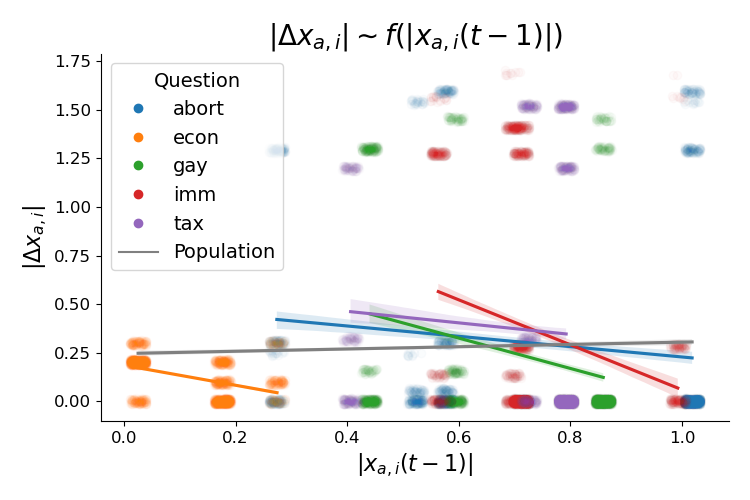
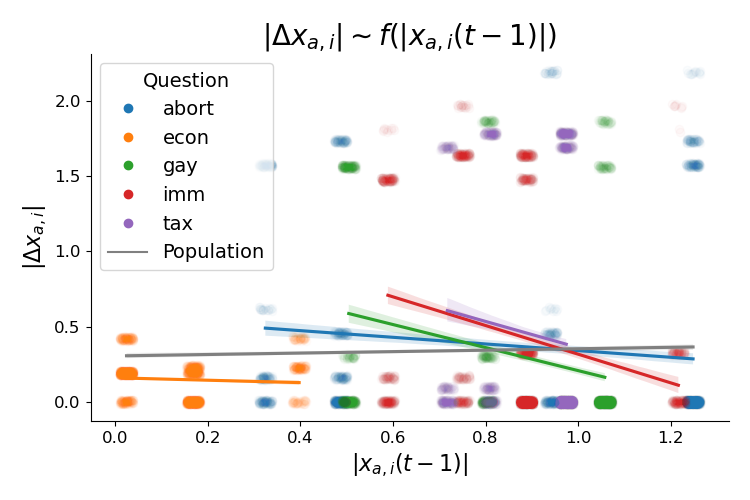
producing better plots and models on ANES and refactoring

diff --git a/ANES/2_mdl.py b/ANES/2_mdl.py
@@ -20,7 +20,7 @@ rcParams['ytick.labelsize'] = 12  # Y-axis tick size
 
 
 df = pd.read_csv('data/anes_data.csv')
-pos = pd.read_csv('data/anes_pos.csv')
+pos = pd.read_csv('data/anes_pos_resin.csv')
 
 # since position here (2016) is used for 2020 we need to duplicate
 pos2020 = pos.copy()
@@ -169,134 +169,42 @@ plot_question(
 # plot model 4 
 # Delta individual ~ SD of beliefs
 plot_individual(
-    df = merged_df[['ID', 'xvalue_lag_std', 'xvalue_delta_abs']].drop_duplicates(),
+    df = merged_df[['ID', 'xvalue_lag_std', 'abs_x_distance']].drop_duplicates(),
     col_x = 'xvalue_lag_std',
-    col_y = 'xvalue_delta_abs',
+    col_y = 'abs_x_distance',
     title = r'$|\Delta x_{a, i}| \sim |std(x_{a, i})|$',
-    xlab = r'$|std(x_{a, i})|$',
-    ylab = r'$|\Delta x_{a, i}|$',
+    xlab = r'$|std(x_{p, i})|$',
+    ylab = r'$|\Delta x_{p, i}|$',
     save = 'figres/m4.png'
 )
 
-
-merged_df
-data_2016 = data_2016.groupby(['ID'])['xvalue'].std().reset_index(name='std')
-lagged_df = lagged_df.merge(data_2016, on = 'ID', how = 'inner')
-
-centroid_2020 = complete_df[complete_df['year']==2020]
-centroid_2020 = centroid_2020.groupby(['ID'])['xvalue'].mean().reset_index(name='centroid_2020')
-lagged_df = lagged_df.merge(centroid_2020, on = 'ID', how = 'inner')
-
-lagged_df['centroid_delta'] = abs(lagged_df['centroid_2020']-lagged_df['x_2016'])
-lagged_unique = lagged_df[['ID', 'std', 'centroid_delta']].drop_duplicates()
-
-
-lagged_df['xvalue_lag_abs'] = lagged_df['xvalue_lag'].abs()
-lagged_df['xvalue_delta'] = abs(lagged_df['xvalue'] - lagged_df['xvalue_lag'])
-
-# plot idea for first model;
-import seaborn as sns 
-fig, ax = plt.subplots()
-
-sns.lineplot(
-    data=lagged_df,
-    x='xvalue_lag_abs', 
-    y='xvalue_delta_abs', 
-    hue='question'
-    )
-
-# Add jitter to the x and/or y values
-lagged_df['xvalue_lag_abs_jittered'] = lagged_df['xvalue_lag_abs'] + np.random.uniform(-0.02, 0.02, len(lagged_df))
-lagged_df['xvalue_delta_jittered'] = lagged_df['xvalue_delta'] + np.random.uniform(-0.02, 0.02, len(lagged_df))
-
-
-# Plot with jittered values
-sns.scatterplot(
-    data=lagged_df,
-    x='xvalue_lag_abs_jittered',
-    y='xvalue_delta_jittered',
-    hue='question',
-    alpha=0.1,
-    legend=False
+# fig 5.
+# basically the same as fig 2, but with the average delta.
+# so instead of ideological movement; stability.
+fig2_tweak = merged_df[['ID', 'abs_x_baseline', 'xvalue_delta_abs']]
+average_delta = fig2_tweak.groupby('ID')['xvalue_delta_abs'].mean().reset_index(name='average_delta')
+fig2_tweak = fig2_tweak[['ID', 'abs_x_baseline']].drop_duplicates()
+fig2_tweak = fig2_tweak.merge(average_delta, on='ID', how='inner')
+plot_individual(
+    df = fig2_tweak,
+    col_x = 'abs_x_baseline',
+    col_y = 'average_delta',
+    title = r'$avg(|\Delta x_{a, i}|) \sim |x_{p, i}(t-1)|$',
+    xlab = r'$|x_{p, i}(t-1)|$',
+    ylab = r'$avg(|\Delta x_{a, i}|)$',
+    save = 'figres/m5.png'
 )
 
-plt.xlabel(r'$|X_{t1}|, \forall X$', fontsize=12)
-plt.ylabel(r'$|X_{t1} - X_{t2}|, \forall X$', fontsize=12)
-plt.tight_layout()
-plt.savefig('figres/m1.png')
-plt.close()
-
-# now we can also do the average 
-# like; how far do you move thing. 
-average_values = complete_df.groupby(['ID', 'year'])['xvalue'].mean().reset_index(name='avg_x')
-average_2016 = average_values[average_values['year']==2016]
-average_2020 = average_values[average_values['year']==2020]
-average_2016 = average_2016.rename(columns={
-    'avg_x': 'x_2016'})
-average_2020 = average_2020.rename(columns={
-    'avg_x': 'x_2020'
-})
-average_2016 = average_2016.drop(columns='year')
-average_2020 = average_2020.drop(columns='year')
-average_values = average_2016.merge(average_2020, on = 'ID', how = 'inner')
-average_values['absolute_dist'] = abs(average_values['x_2016']-average_values['x_2020'])
-average_values['absolute_2016'] = abs(average_values['x_2016'])
-
-# Plot with jittered values
-fig, ax = plt.subplots(figsize=(5, 3))
-sns.regplot(
-    data=average_values,
-    x='absolute_2016', 
-    y='absolute_dist', 
-    scatter_kws={'alpha': 0.1},
-    x_jitter=0.01,
-    y_jitter=0.01
-    )
-plt.xlabel('|avg(X t1)|')
-plt.ylabel('|avg(X t1)-avg(X t2)|')
-plt.tight_layout()
-plt.savefig('figres/m2.png')
-plt.close()
-
-# by distance from your locus to opinions # 
-lagged_df = lagged_df.merge(average_2016, on = 'ID', how = 'inner')
-lagged_df['d_abs'] = abs(lagged_df['xvalue_lag']-lagged_df['x_2016'])
-
-sns.regplot(
-    data=lagged_df,
-    x='d_abs',
-    y='xvalue_delta',
-    scatter_kws={'alpha': 0.1},
-    x_jitter=0.01,
-    y_jitter=0.01
+fig4_tweak = merged_df[['ID', 'xvalue_lag_std', 'xvalue_delta_abs']]
+average_delta = fig4_tweak.groupby('ID')['xvalue_delta_abs'].mean().reset_index(name='average_delta')
+fig4_tweak = fig4_tweak[['ID', 'xvalue_lag_std']].drop_duplicates()
+fig4_tweak = fig4_tweak.merge(average_delta, on='ID', how='inner')
+plot_individual(
+    df = fig4_tweak,
+    col_x = 'xvalue_lag_std',
+    col_y = 'average_delta',
+    title = r'$avg(|\Delta x_{a, i}|) \sim |std(x_{a, i})|$',
+    xlab = r'$|std(x_{a, i})|$',
+    ylab = r'$avg(|\Delta x_{a, i}|)$',
+    save = 'figres/m6.png'
 )
-plt.tight_layout()
-plt.savefig('figres/m3.png')
-plt.close()
-
-# absolute movement by SD of beliefs 
-data_2016 = complete_df[complete_df['year']==2016]
-data_2016 = data_2016.groupby(['ID'])['xvalue'].std().reset_index(name='std')
-lagged_df = lagged_df.merge(data_2016, on = 'ID', how = 'inner')
-
-centroid_2020 = complete_df[complete_df['year']==2020]
-centroid_2020 = centroid_2020.groupby(['ID'])['xvalue'].mean().reset_index(name='centroid_2020')
-lagged_df = lagged_df.merge(centroid_2020, on = 'ID', how = 'inner')
-
-lagged_df['centroid_delta'] = abs(lagged_df['centroid_2020']-lagged_df['x_2016'])
-lagged_unique = lagged_df[['ID', 'std', 'centroid_delta']].drop_duplicates()
-
-fig, ax = plt.subplots(figsize=(6, 4))
-sns.regplot(
-    data=lagged_df,
-    x = 'std', 
-    y = 'centroid_delta',
-    scatter_kws = {'alpha': 0.1},
-    x_jitter = 0.01, 
-    y_jitter = 0.01,
-)
-plt.ylabel(r"$abs(avg(X_{t1})-avg(X_{t2}))$")
-plt.xlabel(r'$std(X_{t1})$')
-plt.tight_layout()
-plt.savefig('figres/m4.png')
-plt.close()

diff --git a/ANES/3_visualize.py b/ANES/3_visualize.py
@@ -1,97 +1,53 @@
 import pandas as pd
-import numpy as np
 import matplotlib.pyplot as plt
 import networkx as nx
-from itertools import combinations
-import pickle 
+from itertools import combinations, product 
 import matplotlib.colors as mcolors
+import plotly.graph_objects as go
+import plotly.io as pio
 
 # ----------------- DATA ---------------------- #
 
 df = pd.read_csv('data/anes_data.csv')
+pos = pd.read_csv('data/anes_pos_resin.csv')
 
-df = df.dropna()
+# ----------------- calculate distances ---------------------- #
+pos['index'] = pos.index
+distance_data = []
+for node_x, node_y in product(pos['index'], repeat=2):
+    node_x_val = pos.loc[node_x]['xvalue']
+    node_y_val = pos.loc[node_y]['xvalue']
+    x_distance = abs(node_x_val - node_y_val)
+    distance_data.append([node_x, node_y, x_distance])
+    
+# naming here is just to facilitate merges 
+df_distance = pd.DataFrame(distance_data, columns=['index', 'idx', 'abs_x_dist'])
+pos_tmp = pos[['question', 'answer', 'index']]
+df_distance = df_distance.merge(pos_tmp, on = 'index', how='inner')
+pos_tmp = pos_tmp.rename(columns={'index': 'idx'})
+df_distance = df_distance.merge(pos_tmp, on=['idx', 'question'], how='inner')
+df_distance = df_distance.rename(columns={
+    'answer_x': 'answer',
+    'answer_y': 'lag_answer'
+})
+df_distance = df_distance.drop(columns={'index', 'idx'})
 
-with open('data/pos.pkl', 'rb') as handle:
-    pos = pickle.load(handle)
-with open('data/new_pos.pkl', 'rb') as handle:
-    new_pos = pickle.load(handle)
-
-# ----------------- FUNCTIONS ---------------------- #
-def calculate_distances(pos, new_pos): 
-    data = []
-    # loop over all pairs of nodes
-    for node_x, node_y in combinations(pos.keys(), 2): 
-        euclid_distance = np.linalg.norm(np.array(pos[node_x]) - np.array(pos[node_y]))
-        x_distance = abs(new_pos[node_x][0] - new_pos[node_y][0])
-
-        # overall variable
-        variable = node_x.split('2016')[0]
-        item_1 = node_x.split('_')[1]
-        item_2 = node_y.split('_')[1]
-        
-        # Append results to the list
-        data.append([variable, item_1, item_2, euclid_distance, x_distance])
-        
-        # Maybe there is a better way to organize this
-        data.append([variable, item_2, item_1, euclid_distance, x_distance])
-
-    # add self-loops
-    for node in pos.keys():
-        variable = node.split('2016')[0]
-        item = node.split('_')[1]
-        
-        # by definition distance is 0
-        data.append([variable, item, item, 0, 0])
-
-    # gather data 
-    distance_df = pd.DataFrame(data, columns=['variable', 'item_2016', 'item_2020', 'euclid_dist_2016', 'x_dist_2016'])
-    return distance_df
-
-def get_transitions(df, variable): 
-    transitions = df[[f'{variable}2016', f'{variable}2020']].value_counts().to_frame().reset_index()
-    transitions['variable'] = variable
-    transitions = transitions.rename(columns={
-        f'{variable}2016': 'item_2016',
-        f'{variable}2020': 'item_2020',
-        'count': 'n_transition'
-    })
-    return transitions
-
-# calculate base rates 
-def get_baserate(df):
-    melt = df.melt(var_name="variable", value_name="item")
-    melt = melt.groupby(["variable", "item"]).size().reset_index(name="count")
-    melt['year'] = melt['variable'].str.extract(r'(\d{4})')
-    melt['variable'] = melt['variable'].str.extract(r'([a-zA-Z]+)')
-    return melt
-
-# -------- calculate distances -------- #
-distance_df = calculate_distances(pos, new_pos)
-
-# -------- calculate transitions -------- #
-transition_abort = get_transitions(df, 'abort')
-transition_gay = get_transitions(df, 'gay')
-transition_imm = get_transitions(df, 'imm')
-transition_temp = get_transitions(df, 'temp')
-
-transition_df = pd.concat([
-    transition_abort,
-    transition_gay,
-    transition_imm,
-    transition_temp
-])
+# ----------------- calculate transitions ---------------------- #
+df_transitions = df.sort_values(by=['ID', 'question', 'year'])
+df_transitions['lag_answer'] = df_transitions.groupby(['ID', 'question'])['answer'].shift(1)
+df_transitions['lag_year'] = df_transitions.groupby(['ID', 'question'])['year'].shift(1)
+df_transitions = df_transitions.dropna(subset=['lag_answer', 'lag_year']).reset_index(drop=True)
+df_transitions['lag_year'] = df_transitions['lag_year'].astype(int)
+df_transitions = df_transitions.groupby(['question', 'answer', 'lag_answer']).size().reset_index(name='n_transitions')
 
 # -------- merge dataframes -------- #
-merged_df = pd.merge(distance_df, transition_df, on=['variable', 'item_2016', 'item_2020'], how='inner')
+merged_df = pd.merge(df_distance, df_transitions, on=['question', 'answer', 'lag_answer'], how='inner')
 
 # -------- calculate baserate -------- #
-baserate = get_baserate(df)
+df_baserate = df[df['year']==2016]
+df_baserate = df_baserate.groupby(['question', 'answer']).size().reset_index(name='count')
 
 ##### ----------------- SANKEY DIAGRAM ---------------------- #####
-
-import plotly.graph_objects as go
-import plotly.io as pio
 
 # important to not that we do not need to provide the base rate here
 # the transitions implicitly capture this. 
@@ -102,11 +58,11 @@ def sankey_diagram(
     save_path=None  # Optional save path
     ): 
     
-    df_subset = df_transitions[df_transitions['variable']==variable]
+    df_subset = df_transitions[df_transitions['question']==variable]
     
     # if not provided specifically obtain 
     if not items: 
-        items = df_subset['item_2016'].unique().tolist()
+        items = df_subset['answer'].unique().tolist()
     
     labels = [f"{item}_2016" for item in items] + [f"{item}_2020" for item in items]
     

diff --git a/ANES/1_resin.py b/ANES/1_resin.py
@@ -2,6 +2,8 @@ import pyreadstat
 import pandas as pd
 import matplotlib.pyplot as plt
 import networkx as nx
+from sklearn.decomposition import PCA
+
 # https://electionstudies.org/data-center/2016-2020-panel-merged-file/
 
 df, meta = pyreadstat.read_sav("data/2016_2020_mergedpanel.sav")
@@ -91,8 +93,6 @@ corr = df_2016_dummies.corr() # consider nan.
 corr[corr < 0] = 0
 
 # calculate the phi thing
-import networkx as nx
-# Create a NetworkX graph from the correlation matrix
 G = nx.from_pandas_adjacency(corr)
 
 # 1. Remove self-loops
@@ -107,8 +107,6 @@ edge_weights = [data['weight'] * edge_multiplier for _, _, data in G.edges(data=
 
 # taking the positions; which are already 2-dimensional.
 pos_list = [list(v) for v in pos.values()]
-
-from sklearn.decomposition import PCA
 
 # then PCA with 2 components? 
 pca = PCA(n_components=2)
@@ -137,15 +135,19 @@ plt.savefig("fig/correlation_graph.png")
 
 # -------------- save data ----------------- #
 
-# fix pos first 
-df_pos = pd.DataFrame(new_pos).T.reset_index()
-df_pos.columns = ['ID', 'xvalue', 'yvalue']
-df_pos = df_pos.drop(columns='yvalue')
-df_pos['question'] = df_pos['ID'].str.split('_').str[0]
-df_pos['answer'] = df_pos['ID'].str.split('_').str[1]
-df_pos['year'] = 2016
-df_pos = df_pos.drop(columns='ID')
+def pos_to_df(pos):
+    df_pos = pd.DataFrame(pos).T.reset_index()
+    df_pos.columns = ['ID', 'xvalue', 'yvalue']
+    df_pos['question'] = df_pos['ID'].str.split('_').str[0]
+    df_pos['answer'] = df_pos['ID'].str.split('_').str[1]
+    df_pos['year'] = 2016
+    df_pos = df_pos.drop(columns='ID')
+    return df_pos
+
+df_pos_resin = pos_to_df(new_pos)
+df_pos_basic = pos_to_df(pos)
 
 # now save 
-df_pos.to_csv("data/anes_pos.csv", index=False)
+df_pos_resin.to_csv("data/anes_pos_resin.csv", index=False)
+df_pos_basic.to_csv("data/anes_pos_basic.csv", index=False)
 df_long.to_csv("data/anes_data.csv", index=False)
